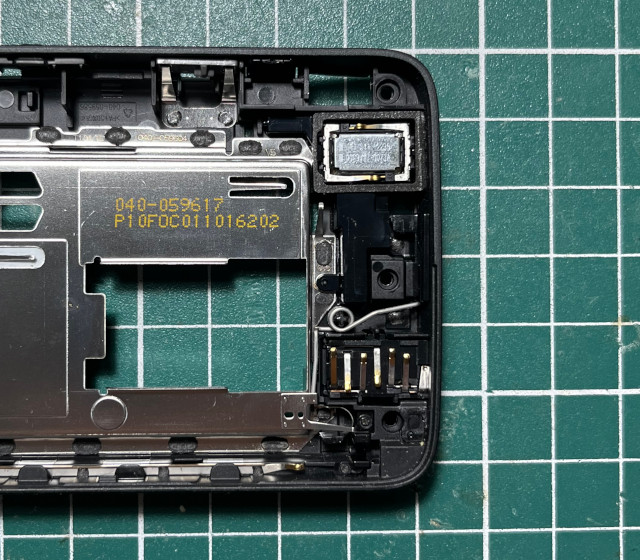
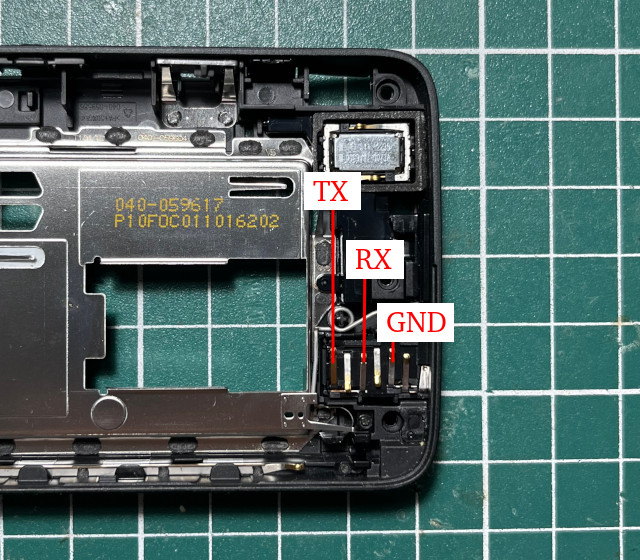
N900 Refined.

Changed region(s): [[0.4688, 0.3036, 0.7188, 0.6375]]

diff --git a/phone/n900_uart_jack.htm b/phone/n900_uart_jack.htm
@@ -5,7 +5,7 @@
 <h3><a href="../phone.htm">手機</a> - N900 - <b>UART改造(耳機孔)</b></h3>
 <hr size="1"><br>
 <p>
-UART傳輸線<br>
+傳輸線<br>
 <img src="n900_uart_jack/1.jpg" class="maxSize"><br><br>
 
 UART腳位<br>
@@ -16,6 +16,9 @@ UART腳位<br>
 
 只需要使用膠帶隔離就可以<br>
 <img src="n900_uart_jack/4.jpg" class="maxSize"><br><br>
+
+UART腳位<br>
+<img src="n900_uart2/3.jpg" class="amxSize"><br><br>
 
 跳線<br>
 <img src="n900_uart_jack/5.jpg" class="maxSize"><br><br>
